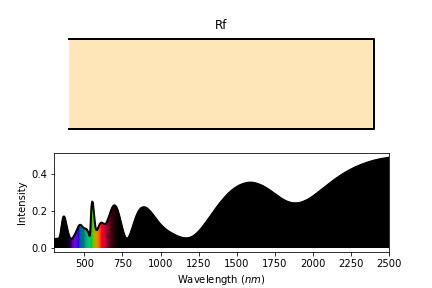
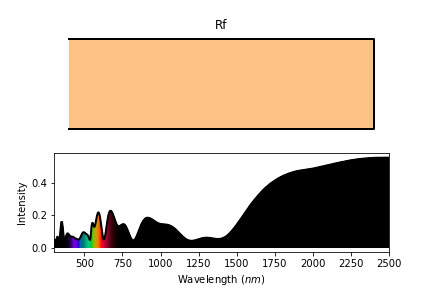
Fixed calculation issues
Ephoton didn't need to be flipped. Not sure what else I changed but at some point the plots started working correctly without flipping Ephoton. Numbers work out but the optimization routine is not working well. Tends to return the input values.

Changed region(s): [[0.1505, 0.125, 0.8727, 0.4688], [0.0602, 0.5312, 0.9028, 0.8438], [0.0602, 0.5938, 0.1204, 0.6562]]

diff --git a/tmmPCEOptimization.py b/tmmPCEOptimization.py
@@ -75,8 +75,8 @@ EVABound = (2999,3001)
 
 #Thicknesses
 GlassTh = 6000
-TiO2Th = .050
-FTOTh = .250
+TiO2Th = .09#.050
+FTOTh = .49#.250
 MAPITh = .130  #.800 
 AZOTh = 0.200
 ITOTh = 0.200
@@ -191,6 +191,7 @@ Spectres = tpc.Spectra(layers, AbsorberLayer)
 As = Spectres['As']
 #Absorbed = tpc.GiveEInterp(Spectres['AbsByAbsorbers'])
 Absorbed = Spectres['AbsByAbsorbers']
+
 TcellPreOp = tpc.TcellCalc(As, eta, Ti,To, Absorbed, Ui, Uo, Rs, Rsh)
 print('Tcell PreOp = ',TcellPreOp)
 
@@ -200,39 +201,51 @@ print('PreOp Calculations give',PreOpInfo)
 
 def RR0quad(eta,Absorbed,Tcell):
     integrand = lambda E : eta * Absorbed(E) * (E)**2 / (np.exp(E / (kB * Tcell)) - 1)
-    integral = scipy.integrate.quad(integrand, tpc.E_min, tpc.E_max, full_output=1)[0]
-    return ((2 * np.pi) / (c0**2 * hPlanck**3)) * integral# / 1.60218e-19 #J/eV
+    integral = scipy.integrate.quad(integrand, tpc.E_max, tpc.E_min, full_output=1)[0]
+    return -((2 * np.pi) / (c0**2 * hPlanck**3)) * integral# / 1.60218e-19 #J/eV
 #units = 1/(s*m**2)
 
 def RR0trapz(eta,Absorbed,Tcell):
     Absorbed = Absorbed.round(8)
     integrand = eta * Absorbed * (Ephoton)**2 / (np.exp(Ephoton / (kB * Tcell)) - 1)
     integral = scipy.integrate.trapz(integrand, Ephoton)
-    return ((2 * np.pi) / (c0**2 * hPlanck**3)) * integral
+    return -((2 * np.pi) / (c0**2 * hPlanck**3)) * integral
 #RR0 with trapz gives a significantly different answer than RR0 with quad
 
 RR0Quad = RR0quad(eta,tpc.GiveEInterp(Absorbed),300)
 RR0Trapz = RR0trapz(eta, Absorbed, 300)
-print('RR0Quad = ', RR0Quad)
+print('RR0Quad = ', RR0Quad,'Was originally 4.83e-13')
 print('RR0Trapz = ', RR0Trapz)
 
 
 def GenQuad(eta,Absorbed):
     integrand = lambda E : eta * Absorbed(E) * tpc.SPhotonsPerTEA(E)
-#    integral = scipy.integrate.quad(integrand, E_min, E_max, full_output=1)[0]
     return scipy.integrate.quad(integrand, tpc.E_min, tpc.E_max, full_output=1)[0]
 #units 1/(s*m**2)
 
 def GenTrapz(eta,Absorbed):
     Absorbed = Absorbed.round(8)
     integrand = eta * Absorbed * tpc.SPhotonsPerTEA(Ephoton)
-    return np.trapz(integrand, Ephoton)
+    return -np.trapz(integrand, Ephoton)
 GenQuad = GenQuad(eta,tpc.GiveEInterp(Absorbed))
 GenTrapz = GenTrapz(eta, Absorbed)
-print('GenQuad = ', GenQuad)
+print('GenQuad = ', GenQuad,'Was originally 2.7e20')
 print('GenTrapz = ', GenTrapz)
 
-TrapzSquad
+def GiveQQuad(Spectra, eta = 1):#Spectra must be an interpolated function
+        def integrand(E):
+            return eta * Spectra(E) * tpc.PowerPerTEA(E)
+        return scipy.integrate.quad(integrand, tpc.E_min, tpc.E_max, full_output=1)[0]
+def GiveQTrapz(Spectra, eta = 1):#Spectra must be an array
+        Spectra = Spectra.round(8)
+        integrand = eta*Spectra*tpc.PowerPerTEA(Ephoton)
+        return -np.trapz(integrand, Ephoton)
+GiveQQuad = GiveQQuad(tpc.GiveEInterp(Absorbed))
+GiveQTrapz = GiveQTrapz(Absorbed)
+print('GiveQQuad = ', GiveQQuad,'Was originally 195')
+print('GiveQTrapz = ', GiveQTrapz)
+
+
 #_________________________________Optimization here__________________________
 #tpc.Give_Pmp(eta,Absorbed,Rs,Rsh, Tcell)
 start1 = time.time()
@@ -297,8 +310,10 @@ PCE =  0.08320342823723645 VLT =  0.5240058022060908 SHGC =  0.9394718110561349 
 PCE =  0.0823026767378474 VLT =  0.5368890922289812 SHGC =  1.023465230604362 Tcell =  309.82218041481286
 [6.00000000e+03, 1.00000000e-01, 2.50000000e-02, 6.97669968e-01])
 '''
-moopsbrgd
 
+#moopsbrgd
+
+'''
 #Tried to plot the effect of FTO vs TiO2.
 
 #LayersMaterials = [FTO,TiO2]
@@ -323,4 +338,4 @@ ax.set_xlabel('FTO Thick')
 ax.set_ylabel('TiO2 Thick')
 ax.set_zlabel('PCE(x, y)')
 plt.show()
-
+'''

diff --git a/tmmPCECalc.py b/tmmPCECalc.py
@@ -243,8 +243,8 @@ AM15 = downloaded_array[1:, [0,2]]
 # print(AM15)
 
     
-Ephotonrr = hPlanck * c0 / lams *1e6 #J #Big to small
-Ephoton = Ephotonrr[::-1]  #small to big
+Ephoton = hPlanck * c0 / lams *1e6 #J #Big to small
+#Ephoton = Ephotonrr[::-1]  #small to big
 E_min = min(Ephoton) #J   energy units from hPlanck
 E_max = max(Ephoton) #J   energy units from hPlanck
 
@@ -297,6 +297,7 @@ def GiveQ(Spectra, eta = 1):#Spectra must be an interpolated function
 '''
 #trapz calcs
 def GiveQ(Spectra, eta = 1):#Spectra must be an array
+        Spectra = Spectra.round(8)
         integrand = eta*Spectra*PowerPerTEA(Ephoton)
         return -np.trapz(integrand, Ephoton)     
 
@@ -329,13 +330,13 @@ def RR0(eta,Absorbed,Tcell):
     Absorbed = Absorbed.round(8)
     integrand = eta * Absorbed * (Ephoton)**2 / (np.exp(Ephoton / (kB * Tcell)) - 1)
     integral = scipy.integrate.trapz(integrand, Ephoton)
-    return ((2 * np.pi) / (c0**2 * hPlanck**3)) * integral
+    return -((2 * np.pi) / (c0**2 * hPlanck**3)) * integral
 #RR0 with trapz gives a significantly different answer than RR0 with quad
 
 def Generated(eta,Absorbed):
     Absorbed = Absorbed.round(8)
     integrand = eta * Absorbed * SPhotonsPerTEA(Ephoton)
-    return np.trapz(integrand, Ephoton)
+    return -np.trapz(integrand, Ephoton)
 
 def Give_Pmp(eta, Absorbed, Rs, Rsh, Tcell, n = 1, Ns = 1):
     data = pvlib.pvsystem.singlediode(Generated(eta, Absorbed)*q, RR0(eta, Absorbed,Tcell)*q, Rs, Rsh, n*Ns*kB*Tcell/q, ivcurve_pnts = 500)
@@ -388,7 +389,7 @@ def max_efficiency(eta,Absorbed,Tcell, solar_constant, Rs, Rsh):
     return Give_Pmp(eta, Absorbed, Rs, Rsh, Tcell) / solar_constant
 
 def GiveImportantInfo(WERT, LayersMaterials,eta,Ti,To,Ui,Uo,Rs,Rsh,solar_constant):
-    
+    EphotoneV= Ephoton*6.242e+18
     NeoThickness = WERT#['x'] 
     layers = GiveLayers(NeoThickness,LayersMaterials)
 
@@ -432,13 +433,13 @@ def GiveImportantInfo(WERT, LayersMaterials,eta,Ti,To,Ui,Uo,Rs,Rsh,solar_constan
     plt.show()
 
     plt.figure()
-    plt.plot(Ephoton, Ts, color='magenta',marker=None,label="$T$")
-    plt.plot(Ephoton, Rfs,color='green',marker=None,label="$R_f$")
-    plt.plot(Ephoton, Rbs,color='purple',marker=None,label="$R_b$")
-    plt.plot(Ephoton, AbsByAbsorbers,color='black',marker=None,label="Abs")
+    plt.plot(EphotoneV, Ts, color='magenta',marker=None,label="$T$")
+    plt.plot(EphotoneV, Rfs,color='green',marker=None,label="$R_f$")
+    plt.plot(EphotoneV, Rbs,color='purple',marker=None,label="$R_b$")
+    plt.plot(EphotoneV, AbsByAbsorbers,color='black',marker=None,label="Abs")
     #plt.plot(Ephoton,tpc.VLTSpectrum(layers).cieplf(lams),color='red',marker=None,label="photopic")
     plt.legend(loc = 'upper right')
-    plt.xlabel('Energy, J')
+    plt.xlabel('Energy, eV')
     plt.show()
 
 
